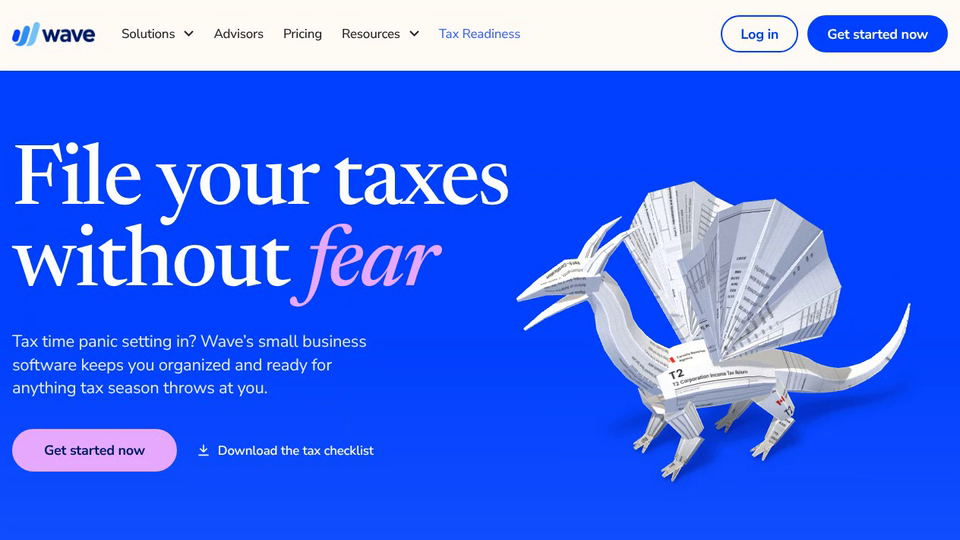
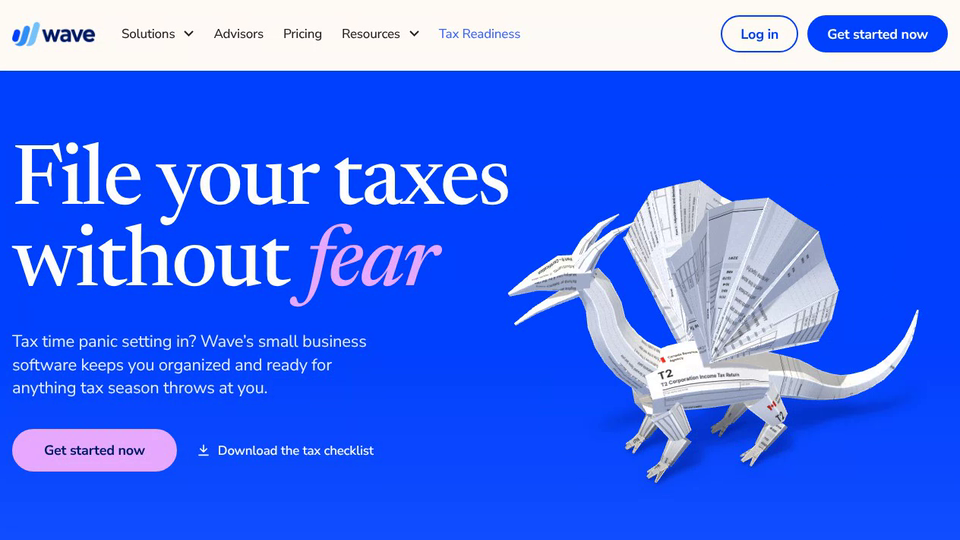
Wave Tax Landing Origami: origami fold, spider title toward camera, portrait moving CTA forms
- Creatures now fold like origami: limbs draw in, the body presses flat
  into a folded packet, and the sheet opens along straight creases
  (book/cupboard folds) instead of breaking into flying pieces.
- Spider: the T5018 title sits on the camera-facing side of the
  abdomen, and the spider is turned so its face angles toward the camera.
- Closing CTA forms use a portrait layout and slowly lift and settle.
- Re-recorded the home page clip at the new timings.

Claude-Session: https://claude.ai/code/session_016rpguaGnGwA1zdzYfzRZj8

Changed region(s): [[0.5312, 0.3259, 0.9688, 0.8889]]

diff --git a/wave-tax-landing-origami/index.html b/wave-tax-landing-origami/index.html
@@ -647,6 +647,18 @@ function domeP(c, r, o = {}) {
     },
   };
 }
+// faceted ellipsoid laid out so the print around texture point (sc, tc) sits on the side facing C, reading left to right and upright
+function domeT(c, r, o) {
+  const C = V.norm(o.C), U = V.norm(V.sub([0, 1, 0], V.mul(C, C[1]))), R = V.cross(U, C), thc = Math.PI * o.sc, phc = TAU * o.tc;
+  const A = V.sub(V.mul(C, Math.cos(thc)), V.mul(R, Math.sin(thc))), ec = V.add(V.mul(C, Math.sin(thc)), V.mul(R, Math.cos(thc)));
+  return {
+    keep: true, nu: o.lats || 6, nv: o.longs || 10, name: o.name, d0: o.d0 || 0, d1: o.d1 == null ? (o.d0 || 0) : o.d1,
+    f(s, t) {
+      const th = Math.PI * s, dp = TAU * t - phc, e = V.sub(V.mul(ec, Math.cos(dp)), V.mul(U, Math.sin(dp))), d = V.add(V.mul(A, Math.cos(th)), V.mul(e, Math.sin(th)));
+      return [c[0] + r[0] * d[0], c[1] + r[1] * d[1], c[2] + r[2] * d[2]];
+    },
+  };
+}
 // flat panel through four corners (a b c d going round); fold = ridge along the middle of s, tfold = along t
 function quadP(a, b, c, d, o = {}) {
   const nrm = V.norm(V.cross(V.sub(c, a), V.sub(d, b)));
@@ -725,9 +737,11 @@ MODELS.scorpion = () => {
   return P;
 };
 
+const SPIDER_TITLE_DIR = [-0.1, -0.06, 1];
 MODELS.spider = () => {
   const P = [];
-  P.push(domeP([0.34, 0.62, 0], [0.46, 0.38, 0.36], { lats: 6, longs: 10, d0: 0, d1: 0.1 }));
+  // abdomen: the form's title (top left of the sheet) runs along the side that faces the hero camera
+  P.push(domeT([0.34, 0.62, 0], [0.46, 0.38, 0.36], { lats: 6, longs: 10, sc: 0.25, tc: 0.13, C: SPIDER_TITLE_DIR, d0: 0, d1: 0.1 }));
   P.push(domeP([-0.12, 0.6, 0], [0.3, 0.22, 0.27], { lats: 5, longs: 8, d0: 0, d1: 0.1 }));
   P.push(domeP([-0.42, 0.56, 0], [0.13, 0.11, 0.15], { lats: 4, longs: 6, d0: 0.1, d1: 0.15 }));
   for (const sd of [1, -1]) P.push(frustum([-0.5, 0.5, 0.05 * sd], [-0.56, 0.3, 0.045 * sd], 0.035, 0.008, { sides: 3, d0: 0.15, d1: 0.2 }));
@@ -784,11 +798,32 @@ MODELS.lotus3 = lotusModel([[12, 0.26, 0.02, 40, 20, 1.15, 0.2, 0, 0.35], [12, 0
 // sheets lying flat then curling up (closing CTA); one fixed patch so the print stays whole
 [[1.3, 0.5, 0.0, [0, 0, 0.0]], [0.9, 0.42, 0.3, [0.03, 0.01, 0.14]], [0.7, 0.34, 0.55, [0.06, 0.02, 0.3]]].forEach(([R0, start, tmax, off], n) => {
   MODELS['curl' + n] = () => [{
-    fixed: true, uvFlip: true, nu: 30, nv: 14, d0: 0, d1: 0,
-    f(u, v) { const L = 2.4, s0 = start * L, sa = u * L, x = (v - 0.5) * 1.7; let y = 0, z = sa; if (sa > s0) { const th = Math.min((sa - s0) / R0, tmax), rem = Math.max(0, (sa - s0) - th * R0); y = R0 * (1 - Math.cos(th)) + rem * Math.sin(th); z = s0 + R0 * Math.sin(th) + rem * Math.cos(th); } return [x + off[0], y + off[1], -(z - L / 2) + off[2]]; },
+    fixed: true, portrait: true, nu: 30, nv: 14, d0: 0, d1: 0,
+    // live: the curl breathes with time (bends, never stretches: arc length is kept)
+    live: (u, v, tm) => { const w = Math.sin(tm * 0.9 + n * 2.1) * 0.5 + 0.5; return MODELS['curl' + n].fn(u, v, tmax + 0.12 + 0.16 * w, start - 0.04 * w); },
+    f(u, v) { return MODELS['curl' + n].fn(u, v, tmax, start); },
   }];
+  MODELS['curl' + n].fn = (u, v, tmax, start) => { const L = 2.4, s0 = start * L, sa = u * L, x = (v - 0.5) * 1.7; let y = 0, z = sa; if (sa > s0) { const th = Math.min((sa - s0) / R0, tmax), rem = Math.max(0, (sa - s0) - th * R0); y = R0 * (1 - Math.cos(th)) + rem * Math.sin(th); z = s0 + R0 * Math.sin(th) + rem * Math.cos(th); } return [x + off[0], y + off[1], -(z - L / 2) + off[2]]; };
 });
 
+// the plain sheet, finely gridded so it can fold along any of the crease lines below
+MODELS.sheet = () => [{ fixed: true, nu: 64, nv: 64, d0: 0, d1: 0, f: (u, v) => [(u - 0.5) * SHEET, 0, (v - 0.5) * SHEET] }];
+/* origami folds: the sheet is folded in half four times (book, cupboard, book, cupboard) into a small square packet.
+   f: 0 = flat, 1 = packet. Each fold turns the paper beyond the crease over the top of the stack. */
+const FOLD_G = 0.006;
+const FOLDS = [[0, 0], [2, 0], [0, -0.25], [2, -0.25]];
+const foldEase = (x) => { x = clamp(x); return x < 0.5 ? 4 * x * x * x : 1 - Math.pow(-2 * x + 2, 3) / 2; };
+function foldPoint(x, z, f, out) {
+  let p = [x, 0, z], H = 0, sx = 0, sz = 0;
+  for (let i = 0; i < FOLDS.length; i++) {
+    const e = foldEase(f * FOLDS.length - i), [ax, hf] = FOLDS[i], h = hf * SHEET, ya = H + FOLD_G / 2;
+    if (e > 0 && p[ax] > h) { const th = Math.PI * e, dc = p[ax] - h, dy = p[1] - ya; p[ax] = h + dc * Math.cos(th) - dy * Math.sin(th); p[1] = ya + dc * Math.sin(th) + dy * Math.cos(th); }
+    H = 2 * H + FOLD_G;
+    const sh = (i < 2 ? 0.25 : 0.125) * SHEET * e; if (ax === 0) sx += sh; else sz += sh;
+  }
+  out[0] = p[0] + sx; out[1] = p[1]; out[2] = p[2] + sz;
+  return out;
+}
 /* ---------- patches -> one mesh: split long patches, lay all patches out on the sheet by area, weld, find creases ---------- */
 const SHEET = 3.3;
 function measure(p) {
@@ -808,7 +843,7 @@ function measure(p) {
   return { area, ls: Math.max(ls, 1e-4), lt: Math.max(lt, 1e-4), flip: sgn < 0 };
 }
 function splitPatch(p, maxAspect = 2.2) {
-  if (p.fixed) return [p];
+  if (p.fixed || p.keep) return [p];
   const m = measure(p);
   const nS = Math.max(1, Math.min(p.nu, Math.ceil(m.ls / m.lt / maxAspect - 0.15))), nT = Math.max(1, Math.min(p.nv, Math.ceil(m.lt / m.ls / maxAspect - 0.15)));
   const out = [];
@@ -830,7 +865,7 @@ const wkey = (p) => Math.round(p[0] * 2000) + ',' + Math.round(p[1] * 2000) + ',
 const smooth01 = (a, b, x) => { const t = Math.max(0, Math.min(1, (x - a) / (b - a))); return t * t * (3 - 2 * t); };
 function buildMesh(patches) {
   const list = [];
-  patches.forEach((p) => { const flip = p.fixed ? !!p.flip : measure(p).flip; splitPatch(p).forEach((c) => { c.flip = flip; list.push(c); }); });
+  patches.forEach((p) => { const flip = p.fixed ? !!p.flip : measure(p).flip; splitPatch(p).forEach((c) => { c.flip = flip; c.keep = p.keep; list.push(c); }); });
   list.forEach((p) => { const m = measure(p); p.area = m.area; p.ls = m.ls; p.lt = m.lt; });
   // lay every patch out on the unit sheet in proportion to its paper area, so the print has the same scale everywhere
   if (list.length === 1) list[0].rect = [0, 0, 1, 1]; else {
@@ -839,12 +874,13 @@ function buildMesh(patches) {
   }
   const V0 = [], FLAT = [], UV = [], DL = [], WELD = [], TRI = [], SGN = [], wmap = new Map();
   list.forEach((p) => {
-    const [x, y, w, h] = p.rect, asp = p.ls / p.lt, swap = !p.fixed && Math.abs(Math.log(asp * (w / h))) < Math.abs(Math.log(asp / (w / h)));
+    const [x, y, w, h] = p.rect, asp = p.ls / p.lt, swap = !p.fixed && !p.keep && Math.abs(Math.log(asp * (w / h))) < Math.abs(Math.log(asp / (w / h)));
     const base = V0.length, nu = p.nu, nv = p.nv, id = (i, j) => base + i * (nv + 1) + j;
     for (let i = 0; i <= nu; i++) for (let j = 0; j <= nv; j++) {
       const s = i / nu, t = j / nv, f = p.f(s, t);
       let a, b; if (swap) { a = x + w * t; b = y + h * s; } else { a = x + w * s; b = y + h * t; }
       if (p.uvFlip) { a = 1 - a; b = 1 - b; }
+      if (p.portrait) { const a2 = 1 - t, b2 = 1 - s; a = a2; b = b2; }
       V0.push(f); UV.push([a, b]); FLAT.push([(a - 0.5) * SHEET, 0, (b - 0.5) * SHEET]); DL.push(p.d0 + (p.d1 - p.d0) * s);
       const k = wkey(f); let wi = wmap.get(k); if (wi == null) { wi = wmap.size; wmap.set(k, wi); } WELD.push(wi);
     }
@@ -877,7 +913,7 @@ function buildMesh(patches) {
     const conc = V.dot(fn[t1], V.sub(ctr[t2], ctr[t1])) > 0 ? 1 : -1;
     M.crease[t1 * 3 + k1] = M.crease[t2 * 3 + k2] = st * conc;
   });
-  M.adj = adj; M.fn = fn;
+  M.adj = adj; M.fn = fn; if (patches.length === 1 && patches[0].portrait) M.asp = 2.4 / 1.7; if (patches.length === 1 && patches[0].live) { M.live = patches[0].live; M.lnu = patches[0].nu; M.lnv = patches[0].nv; }
   return M;
 }
 
@@ -897,13 +933,13 @@ const FORMS = {
 const texCache = {};
 const FILL = ['Amount from line above', 'Subtotal (add lines above)', 'Total of the lines above', 'Enter on the next page', 'Adjustments, if applicable', 'Other income (specify)', 'Carried forward from last year', 'Eligible amount', 'Net of credits claimed', 'Percentage of the total', 'Balance', 'Instalments paid', 'Refund or balance owing', 'Amount from schedule 1', 'Business-use-of-home expenses', 'Add lines 1 and 2', 'Subtract line 3 from line 2', 'Multiply line 4 by the rate'];
 const PARTS = ['Part 2 – Adjustments and deductions', 'Part 3 – Credits and carryovers', 'Part 4 – Tax payable', 'Part 5 – Summary of amounts', 'Part 6 – Certification'];
-function formTexture(kind, S = 2048, page = 1) {
-  const key = kind + page + S; if (texCache[key]) return texCache[key];
-  const F = FORMS[kind] || FORMS.T1, c = document.createElement('canvas'); c.width = c.height = S;
+function formTexture(kind, S = 2048, page = 1, asp = 1) {
+  const key = kind + page + S + '/' + asp; if (texCache[key]) return texCache[key];
+  const F = FORMS[kind] || FORMS.T1, c = document.createElement('canvas'); c.width = S; c.height = Math.round(S * asp); const LH = 1024 * asp;
   const g = c.getContext('2d'), r = rng(kind.length * 977 + 13 + page * 31), k = S / 1024;
   if (page === 2) { g.translate(S, 0); g.scale(-1, 1); }
-  g.fillStyle = '#f7f4ee'; g.fillRect(0, 0, S, S);
-  for (let n = 0; n < 5000; n++) { g.fillStyle = `rgba(${r() < 0.5 ? '120,110,90' : '255,255,255'},${0.03 + r() * 0.05})`; g.fillRect(r() * S, r() * S, 1 + r() * 1.6 * k, 1 + r() * 1.6 * k); }
+  g.fillStyle = '#f7f4ee'; g.fillRect(0, 0, S, c.height);
+  for (let n = 0; n < 5000 * asp; n++) { g.fillStyle = `rgba(${r() < 0.5 ? '120,110,90' : '255,255,255'},${0.03 + r() * 0.05})`; g.fillRect(r() * S, r() * c.height, 1 + r() * 1.6 * k, 1 + r() * 1.6 * k); }
   const ink = '#1f2124', mid = '#5f6368', rule = '#34363a', tint = '#e2e4df', red = '#d52b1e', sans = '"Helvetica Neue",Arial,sans-serif';
   g.save(); g.scale(k, k);
   const flag = (x, y, h) => {
@@ -932,7 +968,7 @@ function formTexture(kind, S = 2048, page = 1) {
     let y = 178, rowInSec = 0;
     const band = (txt) => { g.fillStyle = tint; g.fillRect(cx, y - 9, CW, 12); g.fillStyle = ink; g.font = `700 7.4px ${sans}`; g.fillText(txt, cx + 4, y); y += 16; rowInSec = 0; };
     band(ci === 0 ? F.sub : PARTS[part++ % PARTS.length]);
-    while (y < 992) {
+    while (y < LH - 32) {
       if (rowInSec === 9) band(PARTS[part++ % PARTS.length]);
       const row = n < base.length ? base[n] : [r() < 0.7 ? String(100 + Math.floor(r() * 900) + (r() < 0.4 ? 1000 * (1 + Math.floor(r() * 8)) : 0)) : '', FILL[(n * 5 + ci * 3) % FILL.length]];
       const [code, txt] = row; n++; rowInSec++;
@@ -945,7 +981,7 @@ function formTexture(kind, S = 2048, page = 1) {
       y += pitch;
     }
   });
-  g.fillStyle = mid; g.font = `400 6px ${sans}`; g.fillText('See the privacy notice on your return.   Do not use this area.', 30, 1008); g.font = `700 6.4px ${sans}`; g.fillText(`Page ${page} of 8`, 940, 1008);
+  g.fillStyle = mid; g.font = `400 6px ${sans}`; g.fillText('See the privacy notice on your return.   Do not use this area.', 30, LH - 16); g.font = `700 6.4px ${sans}`; g.fillText(`Page ${page} of 8`, 940, LH - 16);
   g.restore();
   return (texCache[key] = c);
 }
@@ -1053,7 +1089,22 @@ const SMOOTH_COS = Math.cos(24 * Math.PI / 180);
 const meshCache = {};
 const mesh = (k) => meshCache[k] || (meshCache[k] = (() => { const m = buildMesh(MODELS[k]()); m.name = k; return m; })());
 const BARY = new Float32Array([1, 0, 0, 0, 1, 0, 0, 0, 1]);
-function Layer(creature, form, tint) { this.creature = creature; this.form = form; this.tint = tint || null; this.m = mesh(creature); this.tex = formTexture(form, 2048); this.texB = formTexture(form, 2048, 2); this.tex2 = null; const n = this.m.nT * 3; this.buf = new Float32Array(n * 14); this.pos = new Float32Array(this.m.nVtx * 3); this.fnr = new Float32Array(this.m.nT * 3); this.vbo = null; this.n = n; }
+function Geo(m) { this.m = m; this.n = m.nT * 3; this.buf = new Float32Array(this.n * 14); this.pos = new Float32Array(m.nVtx * 3); this.fnr = new Float32Array(m.nT * 3); this.vbo = null; }
+function Layer(creature, form, tint) { this.creature = creature; this.form = form; this.tint = tint || null; this.m = mesh(creature); this.gc = new Geo(this.m); this.act = this.gc; const asp = this.m.asp || 1; this.tex = formTexture(form, 2048, 1, asp); this.texB = formTexture(form, 2048, 2, asp); this.tex2 = null; }
+// where each corner of a creature's sheet ends up inside the folded packet
+// the creature pressed flat into the packet's square: the body flattens in place, the legs fold in to the packet's edges
+let PKT = null;
+function packetBox() { if (PKT) return PKT; const q = [0, 0, 0]; let x0 = 1e9, x1 = -1e9, z0 = 1e9, z1 = -1e9, y1 = 0; for (let a = 0; a <= 8; a++) for (let b = 0; b <= 8; b++) { foldPoint((a / 8 - 0.5) * SHEET, (b / 8 - 0.5) * SHEET, 1, q); x0 = Math.min(x0, q[0]); x1 = Math.max(x1, q[0]); z0 = Math.min(z0, q[2]); z1 = Math.max(z1, q[2]); y1 = Math.max(y1, q[1]); } return (PKT = { cx: (x0 + x1) / 2, cz: (z0 + z1) / 2, h: Math.min(x1 - x0, z1 - z0) / 2, top: y1 }); }
+function packetOf(m) {
+  if (m.pk) return m.pk; const B = packetBox(), pk = new Float32Array(m.nVtx * 3);
+  let cx = 0, cz = 0; for (let i = 0; i < m.nVtx; i++) { cx += m.fold[i * 3]; cz += m.fold[i * 3 + 2]; } cx /= m.nVtx; cz /= m.nVtx;
+  let rmax = 1e-6; for (let i = 0; i < m.nVtx; i++) rmax = Math.max(rmax, Math.hypot(m.fold[i * 3] - cx, m.fold[i * 3 + 2] - cz));
+  for (let i = 0; i < m.nVtx; i++) {
+    const x = m.fold[i * 3] - cx, z = m.fold[i * 3 + 2] - cz, r = Math.max(Math.abs(x), Math.abs(z)) || 1e-6, rho = Math.hypot(x, z) / rmax, sc = (B.h * 0.98 * Math.pow(rho, 0.55)) / r;
+    pk[i * 3] = B.cx + x * sc; pk[i * 3 + 1] = B.top * (0.35 + 0.65 * clamp(m.fold[i * 3 + 1] / 1.2)) + 0.002; pk[i * 3 + 2] = B.cz + z * sc;
+  }
+  return (m.pk = pk);
+}
 function Scene(canvas, opt = {}) {
   this.c = canvas; this.g = canvas.getContext('2d');
   this.o = Object.assign({ creature: 'dragon', form: 'T1', fov: 1.25, yaw: -0.5, flatYaw: 0.5, cx: 0.5, cy: 0.56, zoom: 1, shadow: null, light: [-0.5, 0.85, 0.5], fps: 30, sway: 1, ao: 1, sheen: 0.05, bounce: [0.62, 0.7, 0.92], sky: [1, 0.99, 0.97] }, opt);
@@ -1081,9 +1132,24 @@ Scene.prototype.draw = function (k, frame = 0) {
   // morph every layer on the CPU: staggered unfold, sway, a little lift while paper is in the air
   const sa = Math.sin(st * 1.35) * 0.075 * sw, sc = Math.cos(sa), ss = Math.sin(sa), lean = Math.sin(st * 1.35 - 0.7) * 0.045 * sw, breath = 1 + Math.sin(st * 2.7) * 0.012 * sw;
   let x0 = 1e9, x1 = -1e9, y0 = 1e9, y1 = -1e9;
+  const KF = o.origami ? (o.foldAt || 0.45) : 2, useSheet = k > KF;
+  for (const ly of this.layers) ly.act = useSheet ? (this.sg || (this.sg = new Geo(mesh('sheet')))) : ly.gc;
+  if (o.time != null) for (const ly of this.layers) { const m = ly.m; if (!m.live) continue; for (let i = 0; i <= m.lnu; i++) for (let j = 0; j <= m.lnv; j++) m.fold.set(m.live(i / m.lnu, j / m.lnv, o.time), (i * (m.lnv + 1) + j) * 3); }
   for (const ly of this.layers) {
-    const m = ly.m, P = ly.pos, fold = m.fold, flat = m.flat;
-    for (let i = 0; i < m.nVtx; i++) {
+    const A = ly.act, m = A.m, P = A.pos, fold = m.fold, flat = m.flat;
+    if (useSheet) { // origami: the whole sheet folds along straight creases into the packet
+      const ff = 1 - (k - KF) / (1 - KF), q = [0, 0, 0];
+      for (let i = 0; i < m.nVtx; i++) { foldPoint(flat[i * 3], flat[i * 3 + 2], ff, q); P[i * 3] = q[0]; P[i * 3 + 1] = q[1]; P[i * 3 + 2] = q[2]; }
+    } else if (o.origami) { // the creature is shaped out of the packet: body first, then the limbs draw out of it
+      const pk = packetOf(m), qq = k / KF;
+      for (let i = 0; i < m.nVtx; i++) {
+        const d = m.dly[i], e = clamp(qq * 1.6 - (1 - d) * 0.6), ee = e < 0.5 ? 4 * e * e * e : 1 - Math.pow(-2 * e + 2, 3) / 2, i3 = i * 3;
+        let fx = fold[i3], fy = fold[i3 + 1], fz = fold[i3 + 2];
+        if (o.lift) fy *= 1 + o.lift;
+        if (sw) { const nx = fx * sc - fz * ss + lean * fy, nz = fx * ss + fz * sc; fy *= breath; fx = nx; fz = nz; }
+        P[i3] = fx + (pk[i3] - fx) * ee; P[i3 + 1] = fy + (pk[i3 + 1] - fy) * ee; P[i3 + 2] = fz + (pk[i3 + 2] - fz) * ee;
+      }
+    } else for (let i = 0; i < m.nVtx; i++) {
       const d = m.dly[i], e = clamp(k * 1.45 - d * 0.45), ee = e < 0.5 ? 4 * e * e * e : 1 - Math.pow(-2 * e + 2, 3) / 2, i3 = i * 3;
       let fx = fold[i3], fy = fold[i3 + 1], fz = fold[i3 + 2];
       if (o.lift) fy *= 1 + o.lift;
@@ -1097,7 +1163,7 @@ Scene.prototype.draw = function (k, frame = 0) {
   if (o.center) { const ca = o.centerAmt == null ? 1 : o.centerAmt; ox += (W * (o.centerX || 0.5) - (x0 + x1) / 2) * ca; oy += (H * (o.centerY || 0.5) - (y0 + y1) / 2) * ca; }
   // face normals, then per-corner normals smoothed only across shallow angles so folds stay crisp
   for (const ly of this.layers) {
-    const m = ly.m, P = ly.pos, tri = m.tri, B = ly.buf, fnr = ly.fnr;
+    const A = ly.act, m = A.m, P = A.pos, tri = m.tri, B = A.buf, fnr = A.fnr;
     for (let t = 0; t < m.nT; t++) {
       const a = tri[t * 3] * 3, b = tri[t * 3 + 1] * 3, c = tri[t * 3 + 2] * 3, ux = P[b] - P[a], uy = P[b + 1] - P[a + 1], uz = P[b + 2] - P[a + 2], vx = P[c] - P[a], vy = P[c + 1] - P[a + 1], vz = P[c + 2] - P[a + 2];
       const s = m.sgn[t]; fnr[t * 3] = (uy * vz - uz * vy) * s; fnr[t * 3 + 1] = (uz * vx - ux * vz) * s; fnr[t * 3 + 2] = (ux * vy - uy * vx) * s;
@@ -1121,9 +1187,9 @@ Scene.prototype.draw = function (k, frame = 0) {
   const cv = G.cv; if (cv.width < W || cv.height < H) { cv.width = Math.max(cv.width, W); cv.height = Math.max(cv.height, H); }
   ensureFB(G, W, H);
   gl.bindVertexArray(G.vao);
-  for (const ly of this.layers) { if (!ly.vbo) ly.vbo = gl.createBuffer(); gl.bindBuffer(gl.ARRAY_BUFFER, ly.vbo); gl.bufferData(gl.ARRAY_BUFFER, ly.buf, gl.DYNAMIC_DRAW); }
+  for (const ly of this.layers) { const A = ly.act; if (!A.vbo) A.vbo = gl.createBuffer(); gl.bindBuffer(gl.ARRAY_BUFFER, A.vbo); gl.bufferData(gl.ARRAY_BUFFER, A.buf, gl.DYNAMIC_DRAW); }
   const attr = (ly, full) => {
-    gl.bindBuffer(gl.ARRAY_BUFFER, ly.vbo); const S = 56;
+    gl.bindBuffer(gl.ARRAY_BUFFER, ly.act.vbo); const S = 56;
     gl.enableVertexAttribArray(0); gl.vertexAttribPointer(0, 3, gl.FLOAT, false, S, 0);
     for (const i of [1, 2, 3, 4]) { if (full) { gl.enableVertexAttribArray(i); } else gl.disableVertexAttribArray(i); }
     if (full) { gl.vertexAttribPointer(1, 3, gl.FLOAT, false, S, 12); gl.vertexAttribPointer(2, 2, gl.FLOAT, false, S, 24); gl.vertexAttribPointer(3, 3, gl.FLOAT, false, S, 32); gl.vertexAttribPointer(4, 3, gl.FLOAT, false, S, 44); }
@@ -1136,7 +1202,7 @@ Scene.prototype.draw = function (k, frame = 0) {
   gl.bindFramebuffer(gl.FRAMEBUFFER, G.smFbo); gl.viewport(0, 0, G.SM, G.SM); gl.colorMask(false, false, false, false); gl.depthMask(true); gl.clearDepth(1); gl.clear(gl.DEPTH_BUFFER_BIT);
   gl.useProgram(G.depth); { const u = G.depth.u; gl.uniform3fv(u.uLC, LC); gl.uniform3fv(u.uLX, lx); gl.uniform3fv(u.uLY, ly_); gl.uniform3fv(u.uL, L); gl.uniform1f(u.uLR, LR); }
   gl.enable(gl.POLYGON_OFFSET_FILL); gl.polygonOffset(1.5, 2);
-  for (const ly of this.layers) { attr(ly, false); gl.drawArrays(gl.TRIANGLES, 0, ly.n); }
+  for (const ly of this.layers) { attr(ly, false); gl.drawArrays(gl.TRIANGLES, 0, ly.act.n); }
   gl.disable(gl.POLYGON_OFFSET_FILL); gl.colorMask(true, true, true, true);
   // 2. ground shadow: projected silhouette (R) and contact term (G), blurred
   const sc4 = parseCol(o.shadow);
@@ -1145,7 +1211,7 @@ Scene.prototype.draw = function (k, frame = 0) {
     gl.bindFramebuffer(gl.FRAMEBUFFER, A.fbo); gl.viewport(0, 0, W, H); gl.disable(gl.DEPTH_TEST); gl.clearColor(0, 0, 0, 0); gl.clear(gl.COLOR_BUFFER_BIT);
     gl.enable(gl.BLEND); gl.blendEquation(gl.MAX); gl.blendFunc(gl.ONE, gl.ONE);
     gl.useProgram(G.gnd); cam(G.gnd); gl.uniform3fv(G.gnd.u.uL, L); gl.uniform1f(G.gnd.u.uCon, 5);
-    for (const ly of this.layers) { attr(ly, false); gl.drawArrays(gl.TRIANGLES, 0, ly.n); }
+    for (const ly of this.layers) { attr(ly, false); gl.drawArrays(gl.TRIANGLES, 0, ly.act.n); }
     gl.blendEquation(gl.FUNC_ADD); gl.disable(gl.BLEND);
     const blur = (src, dst, dir, rw, rc) => { gl.bindFramebuffer(gl.FRAMEBUFFER, dst.fbo); gl.viewport(0, 0, W, H); gl.useProgram(G.blur); gl.activeTexture(gl.TEXTURE0); gl.bindTexture(gl.TEXTURE_2D, src.tex); gl.uniform1i(G.blur.u.uT, 0); gl.uniform2f(G.blur.u.uDir, dir[0], dir[1]); gl.uniform2f(G.blur.u.uR, rw, rc); gl.uniform2f(G.blur.u.uSz, G.fw, G.fh); gl.drawArrays(gl.TRIANGLES, 0, 3); };
     const bw = (o.shadowBlur || W / 70), bc = bw * 0.28;
@@ -1168,7 +1234,7 @@ Scene.prototype.draw = function (k, frame = 0) {
     const u = G.main.u; gl.uniform3fv(u.uTint, ly.tint ? parseCol(ly.tint).slice(0, 3) : [1, 1, 1]);
     gl.activeTexture(gl.TEXTURE0); gl.bindTexture(gl.TEXTURE_2D, texFor(G, ly.tex)); gl.activeTexture(gl.TEXTURE1); gl.bindTexture(gl.TEXTURE_2D, texFor(G, ly.texB));
     gl.activeTexture(gl.TEXTURE2); gl.bindTexture(gl.TEXTURE_2D, texFor(G, ly.tex2 || ly.tex)); gl.uniform1f(u.uMix, ly.tex2 ? texMix : 0);
-    attr(ly, true); gl.drawArrays(gl.TRIANGLES, 0, ly.n);
+    attr(ly, true); gl.drawArrays(gl.TRIANGLES, 0, ly.act.n);
   }
   // copy into this scene's canvas
   const g2 = this.g; g2.clearRect(0, 0, W, H); g2.drawImage(G.cv, 0, G.cv.height - H, W, H, 0, 0, W, H);
@@ -1187,21 +1253,21 @@ const reduce = matchMedia('(prefers-reduced-motion: reduce)').matches;
 const SEQ = [
   { c: 'scorpion', z: 0.74, f: 'PD7A', name: 'The payroll scorpion', form: 'PD7A Statement of Account for Current Source Deductions' },
   { c: 'dragon', z: 0.72, f: 'T2', name: 'The T2 dragon', form: 'T2 Corporation Income Tax Return' },
-  { c: 'spider', z: 0.74, f: 'T5018', name: 'The T5018 spider', form: 'T5018 Summary of Contract Payments' },
+  { c: 'spider', z: 0.74, yaw: -0.62, f: 'T5018', name: 'The T5018 spider', form: 'T5018 Summary of Contract Payments' },
   { c: 'snake', z: 0.95, f: 'T2125', name: 'The T2125 cobra', form: 'Statement of Business or Professional Activities' },
 ];
-const HOLD = 1.5, DUR = 2.6, FLAT = 1.6, REFOLD = 2.6, SEG = HOLD + DUR + FLAT + REFOLD, TOTAL = SEG * SEQ.length;
+const HOLD = 1.5, DUR = 3.2, FLAT = 1.6, REFOLD = 3.2, SEG = HOLD + DUR + FLAT + REFOLD, TOTAL = SEG * SEQ.length;
 const stage = document.getElementById('stage');
 const mobile = () => innerWidth <= 820;
 const heroOpt = () => mobile() ? { cx: 0.5, cy: 0.6, fov: 1.25, flatDist: 1.9, centerX: 0.5, centerY: 0.62 } : { centerX: innerWidth < 1400 ? 0.74 : 0.72, centerY: 0.55, cx: innerWidth < 1400 ? 0.755 : 0.74, cy: 0.58, fov: innerWidth < 1400 ? 1.2 : 1.24, zoom: 1, flatDist: 1.95 };
-const scene = new Origami.Scene(stage, Object.assign({ creature: 'scorpion', form: 'PD7A', shadow: 'rgba(0,14,104,.55)', bounce: [0.66, 0.76, 1], yaw: -0.42, flatYaw: 0.22 }, heroOpt()));
+const scene = new Origami.Scene(stage, Object.assign({ creature: 'scorpion', form: 'PD7A', shadow: 'rgba(0,14,104,.55)', bounce: [0.66, 0.76, 1], yaw: -0.42, flatYaw: 0.22, origami: true }, heroOpt()));
 let cur = -1, T = 0, playing = false, lastF = -1, prev = 0, loop = true, speed = 1;
 function show(t) {
   t = ((t % TOTAL) + TOTAL) % TOTAL;
   const i = Math.floor(t / SEG), lt = t - i * SEG, n = (i + 1) % SEQ.length;
   const T1 = HOLD, T2 = T1 + DUR, T3 = T2 + FLAT;
   const refold = lt >= T3, key = refold ? n + 100 : i;
-  if (key !== cur) { cur = key; const c = refold ? SEQ[n] : SEQ[i]; scene.set(c.c, c.f); scene.o.zoom = c.z || 1; scene.next(refold ? null : SEQ[n].f); stage.setAttribute('aria-label', `Paper animation: ${c.name}, folded from a CRA ${c.form}, unfolds into a flat sheet and refolds into the next creature`); }
+  if (key !== cur) { cur = key; const c = refold ? SEQ[n] : SEQ[i]; scene.set(c.c, c.f); scene.o.zoom = c.z || 1; scene.o.yaw = c.yaw || -0.42; scene.next(refold ? null : SEQ[n].f); stage.setAttribute('aria-label', `Paper animation: ${c.name}, folded from a CRA ${c.form}, unfolds into a flat sheet and refolds into the next creature`); }
   const k = lt < T1 ? 0 : lt < T2 ? (lt - T1) / DUR : lt < T3 ? 1 : 1 - (lt - T3) / REFOLD;
   scene.o.texMix = refold ? 0 : Math.max(0, Math.min(1, (lt - T2 - 0.35) / (FLAT - 0.7)));
   const fr = Math.floor(t * 30);
@@ -1278,11 +1344,12 @@ if (reduce && !CLIP) rb.seek(0);
     if (getComputedStyle(cv).display === 'none') return;
     const r = cv.getBoundingClientRect(), dpr = Math.min(2, devicePixelRatio || 1), w = Math.round(r.width * dpr), h = Math.round(r.height * dpr);
     if (cv.width !== w || cv.height !== h) { cv.width = w; cv.height = h; }
-    sc.draw(0, 0); // the sheets just lie there: no breathing, so the top edges never stretch upward
+    sc.o.time = t; sc.draw(0, 0); // the curls slowly lift and settle; no sway or breathing, so the edges never stretch
   };
   let vis = false, t0 = performance.now();
   const step = (now) => { if (!vis) return; draw((now - t0) / 1000); requestAnimationFrame(step); };
-  draw(0); addEventListener('resize', () => draw(0)); document.fonts && document.fonts.ready.then(() => draw(0));
+  const now0 = () => (performance.now() - t0) / 1000;
+  draw(0); addEventListener('resize', () => draw(now0())); document.fonts && document.fonts.ready.then(() => draw(now0()));
   new IntersectionObserver((es) => es.forEach((e) => { if (reduce || CLIP) return; const was = vis; vis = e.isIntersecting; if (vis && !was) requestAnimationFrame(step); }), { threshold: 0.1 }).observe(cv);
   window.__ft = { seek: draw };
 })();

diff --git a/tools/record-clips.js b/tools/record-clips.js
@@ -35,9 +35,9 @@ const APPS = {
   // Wave File Without Fear, a Wave tax-season landing page: on full-bleed blue, a paper dragon folded from a CRA T1 form holds, then unfolds in 12 fps stop motion into a flat creased sheet (starts on the folded dragon)
   // Wave Tax Landing Origami, the same tax-season landing page with higher fidelity paper creatures: a dragon folded from a CRA T2 form with pleated wings, lit and casting a soft shadow on full-bleed blue, unfolds in stop motion into a flat printed sheet.
   'wave-tax-landing-origami': { vp: [1280, 792], crop: [0, 72, 1280, 720], hash: '#clip', ready: 2500, q: 44, run: async (p) => {
-    await p.evaluate(() => window.__rb.seek(8.4));
+    await p.evaluate(() => window.__rb.seek(9.6));
     await sleep(700);
-    await p.evaluate(() => window.__rb.play({ from: 8.4, speed: 1.05, loop: false, to: 14.35 }));
+    await p.evaluate(() => window.__rb.play({ from: 9.6, speed: 1.05, loop: false, to: 15.55 }));
     await sleep(5800);
   } },
   'wave-file-without-fear': { vp: [1280, 792], crop: [0, 72, 1280, 720], hash: '#clip', ready: 1200, q: 44, run: async (p) => {
